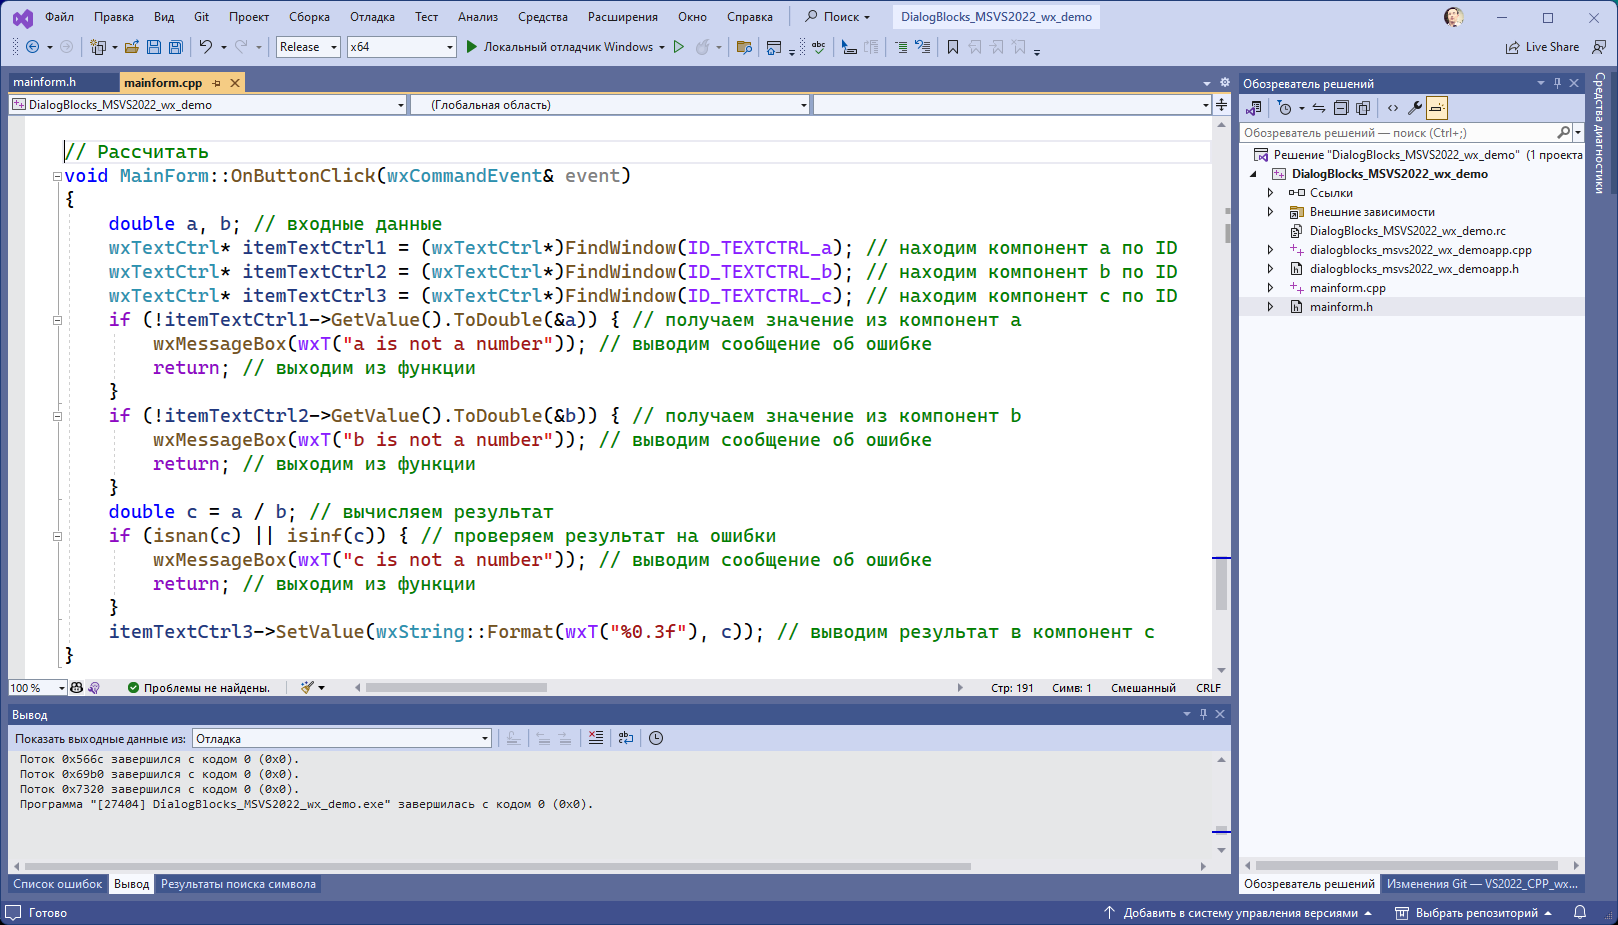
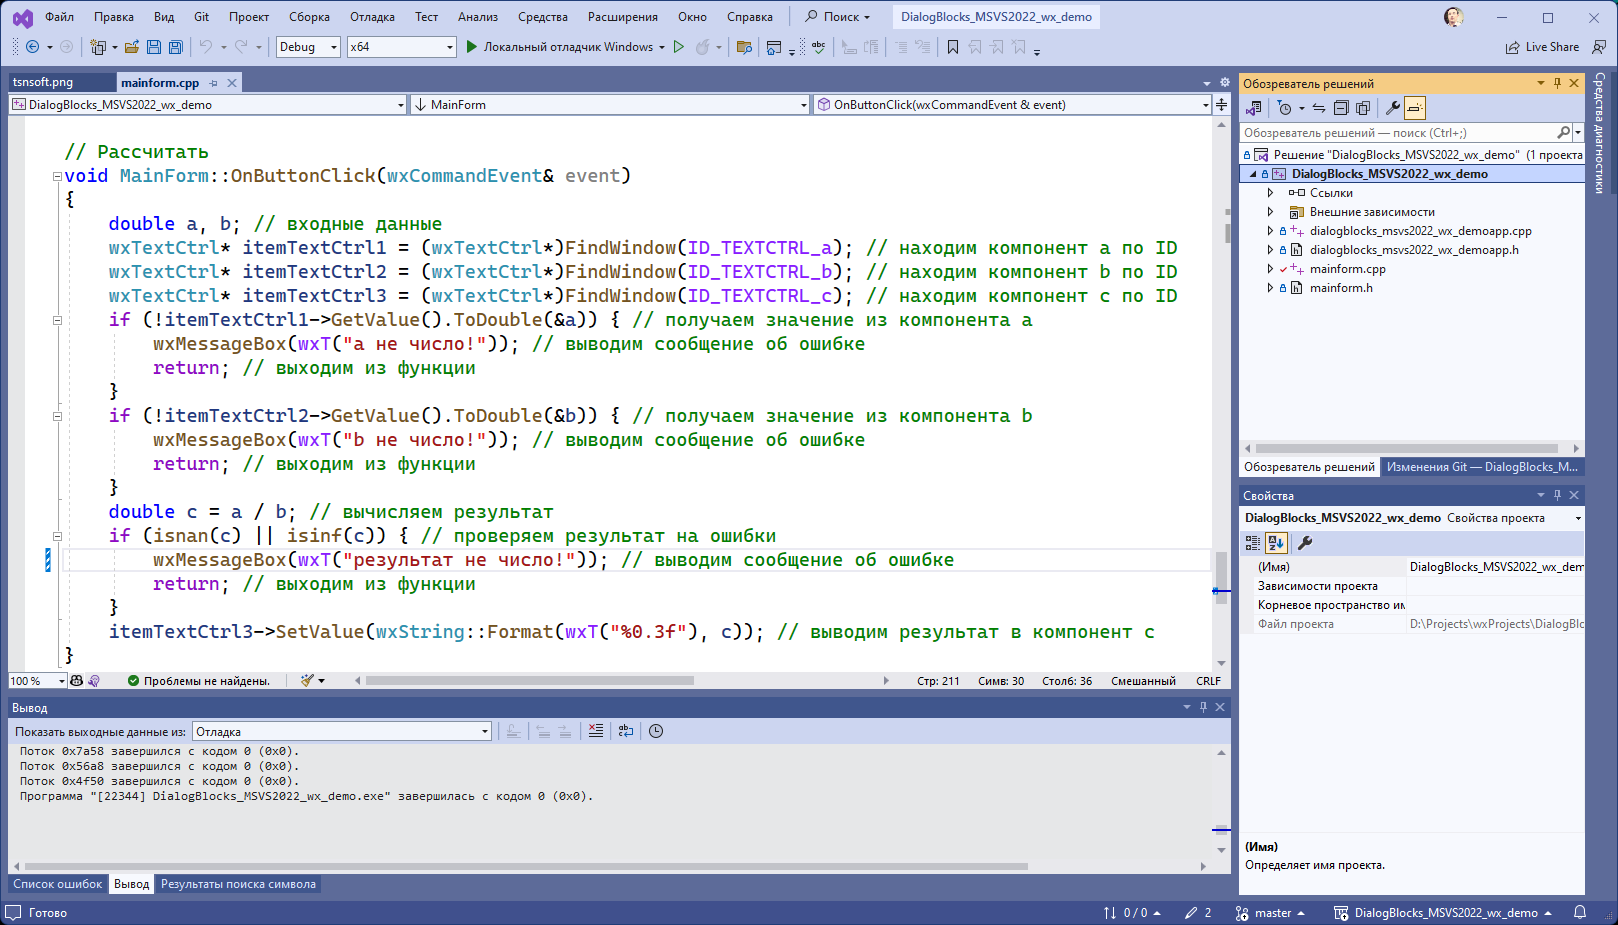
update

diff --git a/mainform.cpp b/mainform.cpp
@@ -208,7 +208,7 @@ void MainForm::OnButtonClick(wxCommandEvent& event)
 	}
 	double c = a / b; // вычисляем результат
 	if (isnan(c) || isinf(c)) { // проверяем результат на ошибки
-		wxMessageBox(wxT("c не число!")); // выводим сообщение об ошибке
+		wxMessageBox(wxT("результат не число!")); // выводим сообщение об ошибке
 		return; // выходим из функции
 	}
 	itemTextCtrl3->SetValue(wxString::Format(wxT("%0.3f"), c)); // выводим результат в компонент c

diff --git a/README.md b/README.md
@@ -43,16 +43,16 @@ void MainForm::OnButtonClick(wxCommandEvent& event)
 	wxTextCtrl* itemTextCtrl2 = (wxTextCtrl*)FindWindow(ID_TEXTCTRL_b); // находим компонент b по ID
 	wxTextCtrl* itemTextCtrl3 = (wxTextCtrl*)FindWindow(ID_TEXTCTRL_c); // находим компонент c по ID
 	if (!itemTextCtrl1->GetValue().ToDouble(&a)) { // получаем значение из компонента a
-		wxMessageBox(wxT("a is not a number")); // выводим сообщение об ошибке
+		wxMessageBox(wxT("a не число!")); // выводим сообщение об ошибке
 		return; // выходим из функции
 	}
 	if (!itemTextCtrl2->GetValue().ToDouble(&b)) { // получаем значение из компонента b
-		wxMessageBox(wxT("b is not a number")); // выводим сообщение об ошибке
+		wxMessageBox(wxT("b не число!")); // выводим сообщение об ошибке
 		return; // выходим из функции
 	}
 	double c = a / b; // вычисляем результат
 	if (isnan(c) || isinf(c)) { // проверяем результат на ошибки
-		wxMessageBox(wxT("c is not a number")); // выводим сообщение об ошибке
+		wxMessageBox(wxT("результат не число!")); // выводим сообщение об ошибке
 		return; // выходим из функции
 	}
 	itemTextCtrl3->SetValue(wxString::Format(wxT("%0.3f"), c)); // выводим результат в компонент c
